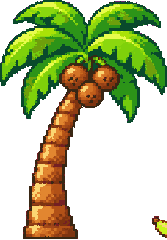
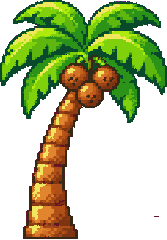
A Boy to the Rescue: namnet, ikon (pojken står modigt), installation till barnläget utan redigerare, palmen utan bananbit

diff --git a/tools/barnspelet-bilder.py b/tools/barnspelet-bilder.py
@@ -127,10 +127,20 @@ class Drawing:
                 px[i] = None
 
     def cut(self, i, scale, size=None):
-        """Frame i → (tw, th, cells). size = exact (tw, th) (tiles); else the box divided by the scale."""
+        """Frame i → (tw, th, cells). size = exact (tw, th) (tiles); else the box divided by the scale.
+        Other figures' boxes inside this one are blanked first – the palm's box reached over the banana
+        lying next to it, and half a banana stood at every palm (the user, 15 Nov)."""
         x0, y0, x1, y1 = self.boxes[i]
         tw, th = size or (max(1, round((x1 - x0) / scale)), max(1, round((y1 - y0) / scale)))
-        return tw, th, pa.cells(self.w, self.h, self.px, self.boxes[i], tw, th, False)
+        px = self.px
+        others = [b for j, b in enumerate(self.boxes) if j != i and b[0] < x1 and b[2] > x0 and b[1] < y1 and b[3] > y0]
+        if others:
+            px = list(px)
+            for bx0, by0, bx1, by1 in others:
+                for y in range(max(by0, y0), min(by1, y1)):
+                    for x in range(max(bx0, x0), min(bx1, x1)):
+                        px[y * self.w + x] = None
+        return tw, th, pa.cells(self.w, self.h, px, self.boxes[i], tw, th, False)
 
 
 def is_leg(c):
@@ -235,6 +245,20 @@ def triumf():
     d.peel(s)
     cells, size = sheet("triumf", [d.cut(0, s)], ["triumf"], pad=0)
     save("triumf", cells, size, ["triumf"])
+
+
+def modig():
+    """The boy standing bravely (barnläge's tile for the game – the user, 15 Nov), 150 px tall: an icon is
+    shown big, so more detail than in the game."""
+    d = Drawing("pojken-modig-prov.png", grid="delar")
+    i = max(range(len(d.boxes)), key=lambda j: (d.boxes[j][2] - d.boxes[j][0]) * (d.boxes[j][3] - d.boxes[j][1]))
+    x0 = min(b[0] for b in d.boxes); y0 = min(b[1] for b in d.boxes)
+    x1 = max(b[2] for b in d.boxes); y1 = max(b[3] for b in d.boxes)
+    d.boxes = [(x0, y0, x1, y1)]  # the sparkles belong to the picture
+    s = d.scale_for(0, 150)
+    d.peel(s)
+    cells, size = sheet("modig", [d.cut(0, s)], ["modig"], pad=0, colours=48)
+    save("modig", cells, size, ["modig"])
 
 
 def racerbil():
@@ -343,7 +367,7 @@ def orangutang():
     save("orangutang", cells, size, names)
 
 
-PARTS = {"bakgrund": bakgrund, "djungel": djungel, "orangutang": orangutang, "figur": figur, "triumf": triumf, "racerbil": racerbil, "saker": saker, "mark": mark}
+PARTS = {"modig": modig, "bakgrund": bakgrund, "djungel": djungel, "orangutang": orangutang, "figur": figur, "triumf": triumf, "racerbil": racerbil, "saker": saker, "mark": mark}
 
 if __name__ == "__main__":
     for part in sys.argv[1:] or PARTS:

diff --git a/docs/anteckningar.md b/docs/anteckningar.md
@@ -1029,6 +1029,7 @@ Användaren: högra sidan av klockrutan var tom (headset med sladd → inget hea
 - **Djungeln efter användarens första spel (15 nov):** "bakgrunden topnotch, fienderna funkar mycket bra, perfekt svårighetsgrad". Lagat: första ormen bort (lär dig kontrollen först, knappar i luften i stället); **allt svävade** – gräset sitter i rutans rad 5–20, figurerna stod på rutans överkant = grästopparna → två TileMapLayer: det man står på (osynligt, på rutnätet) och det som syns (`MARK_UPP` 12 px högre, `collision_enabled = false`, en extra rad under så att marken når nederkanten); första försöket flyttade hela lagret och därmed krocken också (provet "står på marken" fångade det). **Vattnet** låg i grästopparnas höjd → `VATTEN_NER` 20 px (vattenlagret, krokodilens yta, oj-kollen). Kakans bakgrund 200 px ner (blomraden i markhöjd såg ut som saker att plocka, "halva bananer"). Helskärm (`window/size/mode=3`) – i fönster blev det bara ×1. De röda hjärtformade frukterna i lianerna får vara kvar (användaren 15 nov: "de ser bra ut").
 - **Redigeraren (15 nov, användaren: "jag vill ha realtids editering … jag startar editering och lägger in fienderna och plattformar"):** `redigerare.gd`. Arbetsgången: Claude + användaren gör bilderna och temat per bana, användaren bygger banan själv. **E** i spelet → redigeraren (eller `-- --redigera`): pojken/fienderna står still, rutnät, röd linje = banans slut, meny längst ner med bilderna (`VERKTYG`: mark, gren, vatten, knapp, hjärta, racerbil, orm, papegoja, krokodil, palm, banan, bananbuske, boss, flagga, bur, start; 1–9/0 väljer). Vänster = lägg ut (dra = måla), höger = ta bort, Ctrl+Z ångra (200 steg, `Spel.red_historik`), A/D/pilar/hjulet flyttar (Shift fortare). **E** = spela härifrån (`Spel.test_start`, marken i kolumnen mitt i bild), **Enter** = från början. Varje ändring skrivs direkt i `banor/<namn>.txt` (`bana.fil()` = globalize_path – fungerar när spelet körs från projektmappen, inte i en exporterad version) och scenen laddas om (samma bygge som spelet); start och boss finns bara en gång; banan växer åt höger, tomma kolumner sist tas bort (minst 20). Ny bana: `-- --bana <namn>` som inte finns → mark + start. Krokodil och start ritas som halvgenomskinliga bilder (syns annars inte). **Prov** `-- --prov-red` (6: ny bana, orm sparas och syns, banan växer, en start, ångra, pojken still) – tillfällig bana som tas bort. Skärmbild sedd. **Inte provat:** användaren med musen. Bakgrunden: 40 rader extra överst (översta raderna spegelvända uppåt) – i höga hopp syntes en ljus rand.
 - **Tid, räkning, ducka/glida (15 nov, användaren: "en timer … man ska inte kunna förlora på grund av tid … Speedruns incoming!", "hur många fiender man dödat 8/8 och knappar 10/12", "duck och slidefunktion"):** `Spel.tid` räknas i `bana._physics_process` (inte i redigeraren, inte efter målet), går vidare genom dödsfall (scenen laddas om), nollas av `Spel.ny_runda()` (Enter i redigeraren, slut på liv, efter målet, "spela härifrån" = `tid_giltig` false → grå, inget rekord). Bästa tid per bana: `user://basta-tider.json` (`spara_tid`/`basta_tid`). Vid målet: tiden stort (guld + pixelkrona `_krona()` vid rekord – ritad i koden, tecknet ♛ kanske saknas i typsnittet), bästa tiden under, sedan [orm-bild] utslagna/alla trampbara och [knapp] plockade/alla – i sista försöket (guld när allt). **T** = tidtagare uppe till höger medan man spelar. Siffror är okej trots "ingen text" (för den vuxne). Ducka/glida i `pojke.gd`: ner på marken = `ducker` (står still, `LAG` 50 px hög krockruta, reser sig bara om det finns plats – `_plats_att_sta`), ner i ≥ 200 px/s = `glider` (`GLID_BROMS` 420, högst 0,75 s, slår ut `gangare` – ormar/bilar, räknas som utslagna), hopp går ur båda. Bilder `duck`/`glid` (68 px, huvudet lika stort som stående). Prov: 4 nya i `--prov` (ducka låg+still, reser sig, glida, glidning slår ut bilen). Bakgrunden: spegelvänt uppåt såg konstigt ut (användaren) → hela bilden högst upp (y 0, kameran går aldrig högre); gula prickar i nedre 45 % målas över i verktyget (en gulgrön finns kvar).
+- **Namnet och barnläget (15 nov, användaren: spelet heter "A Boy to the Rescue"; "liggandes i barnläget så min son kan testa det imorgon. utan att redigeraren ligger med"):** `project.godot` config/name = A Boy to the Rescue (fönstrets WM_CLASS = "Godot_Engine", "A Boy to the Rescue" under XWayland – barnläget släpper fram valda program efter `StartupWMClass`, `kids.window_names`; mappen heter fortfarande `games/barnspelet`). `tools/barnspelet-installera.sh <godot>`: Godot + spelet till `~/.local/share/goblincakes/barnspelet/` (132 MB), **banorna ur git HEAD** (inte det som ligger i redigeraren – användarens provändringar hade lagt vatten vid starten), ikon = `bilder/modig.png` (pojken står modigt med en rutig filt som mantel, Codex, 150 px, 48 färger) ×2, menyfil `~/.local/share/applications/goblincakes-barnspelet.desktop` (`-- --barnlage`), och spelet läggs i `kids.json` items (kopia `kids.json.fore-barnspelet-<tid>` först; finns det redan uppdateras bara namnet). Kör om efter ändringar. `--barnlage` (`Spel.barnlage`): E/T/Enter gör inget, **Back + Start** på kontrollen avslutar (Esc också). Provat: menyfilen, kids.json, WM_CLASS, barnlägets fönster (NOLOCK) visar rutan med ikonen. **Inte provat:** starta spelet inifrån barnläget med spärrarna (KWin-skriptet, helskärm/keepAbove), Back+Start, sonen. Palmens bild hade en halv banan i hörnet (Codex ritade bananen bredvid, palmens ruta räckte över den) → `Drawing.cut` tömmer andra figurers rutor först.
 - **Ordningen (15 nov, användaren):** banorna först, sedan kartan runt dem, sedan barnläget. **Bana 1 djungel – bossen:** en leksaks-orangutang som man kastar bananer till tills den blir mätt och somnar. Egna fiender per tema. **Djungelns fiender (valda 15 nov):** leksaksorm (ringlar på marken, hoppa över/trampa), plyschpapegoja (flyger i vågor), krokodil som hoppar upp ur vattengropar, kokosnötter som ramlar från palmer (fara, skakar först). Uppdragbar apa med cymbaler valdes inte. Bananerna ligger framme när man kommer till bossen, kastas med **B**; träff i munnen = mättare (syns som bild: magen, trötta ögon), 3–5 bananer → gäspar och somnar → buren öppnas. Gossedjuret i djungeln = Björnen.
 - **Arbetssättet för banorna (15 nov, användaren):** användaren planerar och säger hur banorna ska vara, Claude föreslår och kodar.
 - **De tio banorna (15 nov, användaren):** 1 djungel, 2 snö, 3 sand, 4 vatten, 5 lava, 6 moln, 7 rymd, 8 spökhus, 9 mörk skog, 10 slott. Kakan gör bakgrunder efter temat. Varje bana har en slutboss som följer temat och som barn känner igen. Några generiska fiender som finns på alla banor (racerbilen är den första). Provbanan 1-1 (trädgård) är bara för känslan i steg 1. **Bestämt 15 nov (ändrat samma kväll):** *en* värld med tio banor = de tio temana; världskartan har en stig som leder till en del av kartan i varje banas tema. Varje bana har en slutboss som man måste klura ut hur man besegrar; bana 10 (slottet) = den stora slutbossen (actionfiguren med cape). **Arbetsgången:** Claude bygger banorna i grova drag (känslan/vibben) → användaren spelar och planerar vad som ska finnas → Claude föreslår och kodar.
